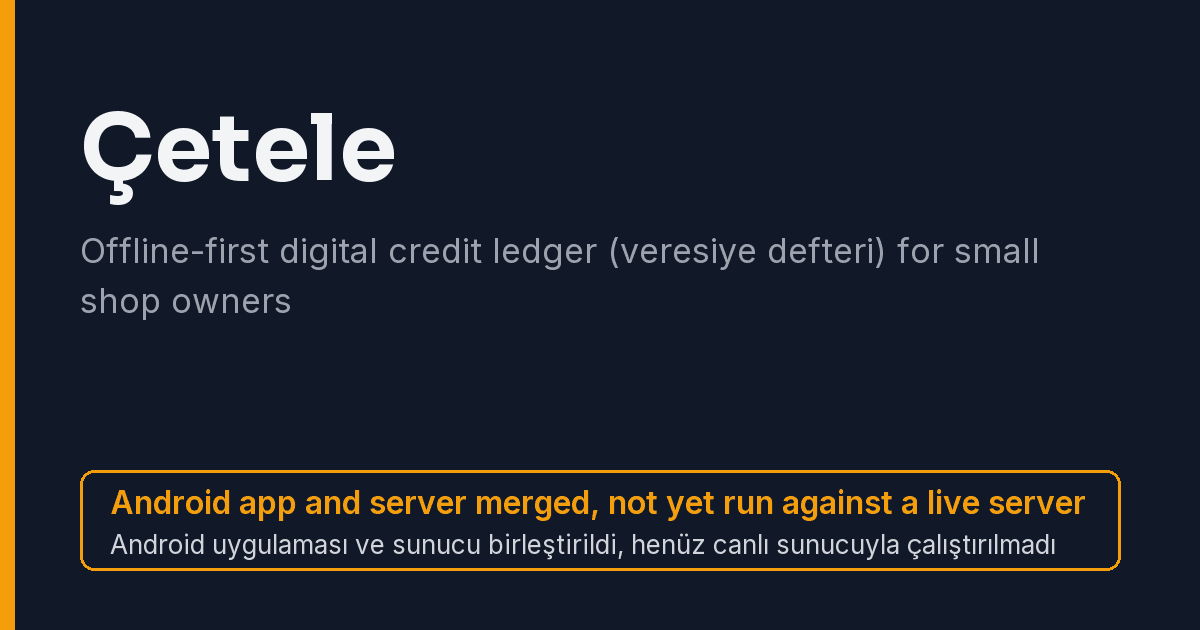
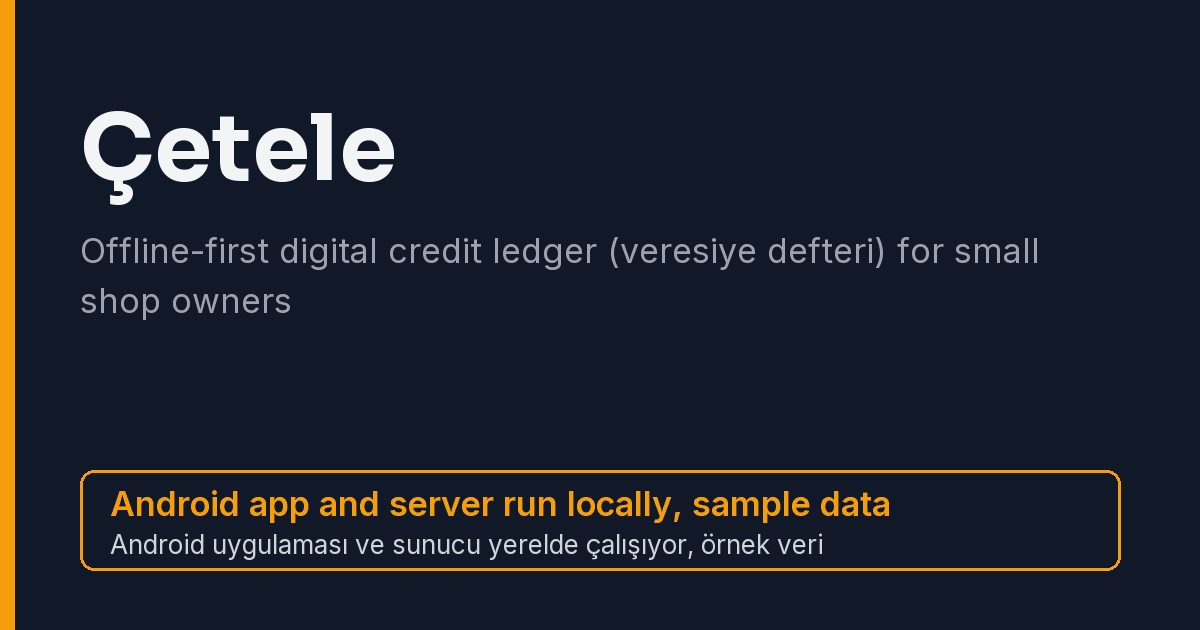
docs(readme): show Cetele customer list, ledger and dashboard captured against a local server

Changed region(s): [[0.0925, 0.7841, 0.925, 0.9048]]

diff --git a/cetele/docs/release/screenshots/README.md b/cetele/docs/release/screenshots/README.md
@@ -1,15 +1,45 @@
 # App screenshots
 
-Two Android captures of the debug build of the Cetele app, taken on 2026-10-11 on the `Pixel_8`
-Android emulator (an emulator, not a physical device). They are the raw device frames
-(1080x2400, no device frame, no retouching), downscaled to 540x1200 and colour-quantized to keep
-each file small.
+Three Android captures of the debug build of the Cetele app, taken on 2026-10-11 on the `Pixel_8`
+Android emulator (Android 17, API 37; an emulator, not a physical device), signed in against a
+live server running locally. They are the raw device frames (1080x2400, no device frame, no
+retouching), downscaled to 540x1200 and reduced to a 256-colour palette to keep each file small.
+The status bar is in the emulator's demo mode (09:41).
 
-No server was running during the capture, so sign-in could not complete and no ledger screen is
-shown. Only screens that render without a server are included. The app has not yet been run
-against a live server.
+The server was the Spring Boot server of this repository, started from source with
+`./gradlew bootRun` (profile `local`, JDK 21) on port 60080, with PostgreSQL and MinIO from
+`cetele/docker-compose.yml`. It ran with the local stand-ins described in
+[`docs/ops/env.md`](../../ops/env.md): `CETELE_SMS_PROVIDER=fake` (no SMS was sent),
+`CETELE_INTEGRITY_MODE=fake` (the debug app sends the `fake.ok` token), `CETELE_BILLING_MODE=fake`
+and `CETELE_OTP_LOCAL_ECHO=true`, so the sign-in code was read from the server log. No deployed
+service was involved.
 
-| # | File | Screen | What it shows |
-| --- | --- | --- | --- |
-| 1 | `01-sign-in-phone.png` | Sign-in, phone entry | The first screen on a fresh install: phone number field, privacy notice and the send-code button. |
-| 2 | `02-sign-in-unreachable.png` | Sign-in, server unreachable | The same screen after tapping send code with no server running: the app shows its "Unable to connect" error. The number typed is a placeholder, not a real one. |
+Every shop, person name, phone number, note and amount on screen is sample data. The shop and
+customer names carry the `[ÖRNEK]` label, and the phone numbers are placeholders in the
+`0 555 000 00 xx` pattern, picked as sample values and not taken from any person. The shop, the customers and the ledger entries
+were sent to the server through its HTTP API (`POST /v1/shops` and `POST /v1/shops/{shopId}/sync/push`);
+the app then signed in with the same placeholder phone number through its own screens (phone
+number, code, new PIN) and pulled the data with its normal sync.
+
+## Files
+
+| # | File | Screen | Caption (tr) | Caption (en) |
+| --- | --- | --- | --- | --- |
+| 1 | `01-customers.png` | Customer list | Müşteriler ve güncel bakiyeleri; arama ve tek dokunuşla müşteri ekleme. | Customers with their current balances; search, and add a customer with one tap. |
+| 2 | `02-customer-ledger.png` | Customer ledger | Müşterinin hesabı: borçlar, tahsilatlar ve düzeltilen kayıt üstü çizili olarak. | One customer's account: debts, payments, and a corrected entry shown struck through. |
+| 3 | `03-dashboard.png` | Dashboard | Bugünün özeti, toplam alacak ve en çok borçlu müşteriler. | Today's summary, the total owed to the shop and the customers who owe the most. |
+
+Notes on what the images show:
+
+- 02: the 320,00 TL "Deterjan" debt was entered with a wrong amount, reversed by a "Düzeltme"
+  entry and written again with the right amount (230,00 TL). The ledger never deletes an entry; a
+  reversed entry stays visible, struck through. One more entry of this customer (42,50 TL, with a
+  due date) is below the visible area. The balance (432,00 TL) counts only entries that are not
+  reversed.
+- 03: the "Bugün" line shows 0,00 TL because every sample entry is dated before the capture day.
+- 01, 03: "[ÖRNEK] Ali Çelik" has a balance of 0,00 TL: his sample debt is fully paid.
+- The gesture handle of the emulator overlaps the bottom edge of the screens. The captures are not
+  retouched.
+
+Not captured: the photo attachment of an entry, reminders and the statement PDF, and iOS (there is
+no iOS app). The two sign-in captures of the earlier run (no server) were replaced by these three.

diff --git a/README.tr.md b/README.tr.md
@@ -17,7 +17,7 @@ yığını, araçları ve yayın döngüsüyle yaşar; ürünler arasında payla
 
 ## Galeri
 
-Her proje için bir kart. Kadro'nun, Askıda'nın ve Cetele'nin uygulaması var. Askıda kartı marka sistemini ve üç uygulama ekranını gösterir (Android emülatörü, örnek veri); tamamı [`askida/README.tr.md`](askida/README.tr.md#ekran-görüntüleri) dosyasında. Cetele kartı iki gerçek emülatör ekranını gösterir (yalnızca giriş, sunucu çalışmıyordu); ekran görüntüleri [`cetele/docs/release/screenshots`](cetele/docs/release/screenshots/README.md) altında. Inecek Var ve Patika kartları henüz tasarım aşamasındaki ürünler için yer tutucudur.
+Her proje için bir kart. Kadro'nun, Askıda'nın ve Cetele'nin uygulaması var. Askıda kartı marka sistemini ve üç uygulama ekranını gösterir (Android emülatörü, örnek veri); tamamı [`askida/README.tr.md`](askida/README.tr.md#ekran-görüntüleri) dosyasında. Cetele kartı üç uygulama ekranını gösterir (yerel sunucuya giriş yapmış Android emülatörü, örnek veri); ekran görüntüleri [`cetele/docs/release/screenshots`](cetele/docs/release/screenshots/README.md) altında. Inecek Var ve Patika kartları henüz tasarım aşamasındaki ürünler için yer tutucudur.
 
 <table>
   <tr>
@@ -35,10 +35,11 @@ Her proje için bir kart. Kadro'nun, Askıda'nın ve Cetele'nin uygulaması var.
   </tr>
   <tr>
     <td width="50%" align="center">
-      <img src="docs/readme/cetele.png" alt="Cetele kartı: Android uygulaması ve sunucu birleştirildi, henüz canlı sunucuyla çalıştırılmadı" width="100%"><br>
-      <img src="cetele/docs/release/screenshots/01-sign-in-phone.png" alt="Cetele Android uygulaması giriş ekranı, boş telefon numarası alanı, emülatör" width="32%">
-      <img src="cetele/docs/release/screenshots/02-sign-in-unreachable.png" alt="Cetele Android uygulaması sunucu çalışmadığı için bağlanılamadı hatasını gösteriyor, emülatör" width="32%"><br>
-      <sub><b>Cetele</b>: Android uygulaması ve sunucu birleştirildi, henüz canlı sunucuyla çalıştırılmadı (emülatör ekranları, sunucu yok)</sub>
+      <img src="docs/readme/cetele.png" alt="Cetele kartı: Android uygulaması ve sunucu yerelde çalışıyor, örnek veri" width="100%"><br>
+      <img src="cetele/docs/release/screenshots/01-customers.png" alt="Cetele Android uygulaması: bakiyeleriyle müşteri listesi, örnek müşteriler, emülatör" width="32%">
+      <img src="cetele/docs/release/screenshots/02-customer-ledger.png" alt="Cetele Android uygulaması: bir müşterinin hesabı, borçlar, tahsilat ve üstü çizili düzeltilmiş kayıt, örnek veri, emülatör" width="32%">
+      <img src="cetele/docs/release/screenshots/03-dashboard.png" alt="Cetele Android uygulaması: toplam alacak ve en çok borçlu müşterilerle panel, örnek veri, emülatör" width="32%"><br>
+      <sub><b>Cetele</b>: Android uygulama ekranları (emülatör, yerel sunucu, örnek veri)</sub>
     </td>
     <td width="50%" align="center">
       <img src="docs/readme/inecekvar.png" alt="Inecek Var kartı: tasarım aşamasında, henüz uygulama yok" width="100%"><br>

diff --git a/README.md b/README.md
@@ -17,7 +17,7 @@ stack, tooling and release cycle; nothing is shared between them.
 
 ## Gallery
 
-One card per project. Kadro, Askıda and Cetele have applications. The Askıda card shows its brand system and three app screens (Android emulator, sample data); the full set is in [`askida/README.md`](askida/README.md#screenshots). The Cetele card shows two real emulator screens (sign-in only, no server was running); screenshots are in [`cetele/docs/release/screenshots`](cetele/docs/release/screenshots/README.md). The Inecek Var and Patika cards are placeholders for products that are still in the design stage.
+One card per project. Kadro, Askıda and Cetele have applications. The Askıda card shows its brand system and three app screens (Android emulator, sample data); the full set is in [`askida/README.md`](askida/README.md#screenshots). The Cetele card shows three app screens (Android emulator signed in against a local server, sample data); screenshots are in [`cetele/docs/release/screenshots`](cetele/docs/release/screenshots/README.md). The Inecek Var and Patika cards are placeholders for products that are still in the design stage.
 
 <table>
   <tr>
@@ -35,10 +35,11 @@ One card per project. Kadro, Askıda and Cetele have applications. The Askıda c
   </tr>
   <tr>
     <td width="50%" align="center">
-      <img src="docs/readme/cetele.png" alt="Cetele card: Android app and server merged, not yet run against a live server" width="100%"><br>
-      <img src="cetele/docs/release/screenshots/01-sign-in-phone.png" alt="Cetele Android app sign-in screen with an empty phone number field, emulator" width="32%">
-      <img src="cetele/docs/release/screenshots/02-sign-in-unreachable.png" alt="Cetele Android app showing an unable-to-connect error because no server was running, emulator" width="32%"><br>
-      <sub><b>Cetele</b>: Android app and server merged, not yet run against a live server (emulator screens, no server)</sub>
+      <img src="docs/readme/cetele.png" alt="Cetele card: Android app and server run locally, sample data" width="100%"><br>
+      <img src="cetele/docs/release/screenshots/01-customers.png" alt="Cetele Android app: customer list with balances, sample customers, emulator" width="32%">
+      <img src="cetele/docs/release/screenshots/02-customer-ledger.png" alt="Cetele Android app: one customer's ledger with debts, a payment and a reversed entry struck through, sample data, emulator" width="32%">
+      <img src="cetele/docs/release/screenshots/03-dashboard.png" alt="Cetele Android app: dashboard with the total owed and the top debtors, sample data, emulator" width="32%"><br>
+      <sub><b>Cetele</b>: Android app screens (emulator, local server, sample data)</sub>
     </td>
     <td width="50%" align="center">
       <img src="docs/readme/inecekvar.png" alt="Inecek Var card: in design stage, no app yet" width="100%"><br>
